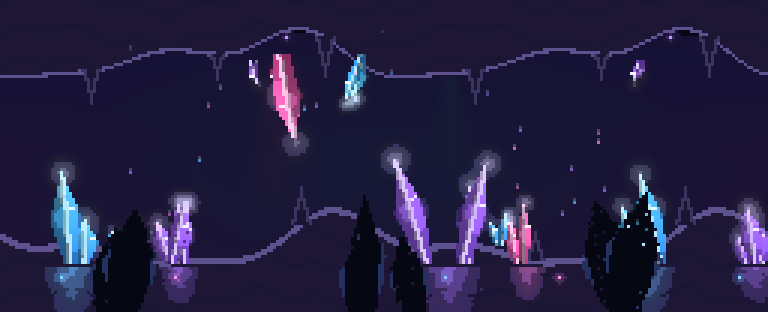
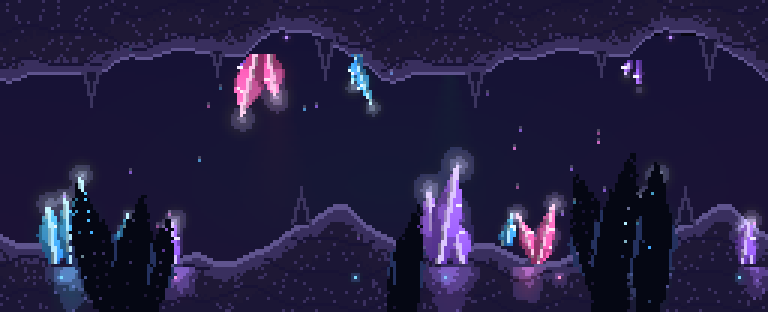
Fix crystal jitter + give rock volume
- Crystals "暴れる" (rampaging): the cluster RNG was seeded with the on-screen X,
  which changes every frame while scrolling, so each crystal's shape/tilt/count
  was re-randomised per frame. Seed by the instance's stable id instead → forms
  hold steady as they scroll. Gentler breathing pulse too.
- Rock read too flat vs the gems: depth-graded tones (lit lip → near → mid →
  deep) + grain dither + craggier silhouette so walls have volume, with the
  grain/cracks made periodic over the layer so the loop stays seamless.

diff --git a/src/background.js b/src/background.js
@@ -30,6 +30,8 @@ const clamp01 = (v) => (v < 0 ? 0 : v > 1 ? 1 : v);
 const mix = (a, b, t) => [lerp(a[0], b[0], t), lerp(a[1], b[1], t), lerp(a[2], b[2], t)];
 const scl = (c, k) => [c[0] * k, c[1] * k, c[2] * k];
 const TAU = Math.PI * 2;
+// stable value hash for rock grain
+function hash(x, y) { let h = (Math.imul(x | 0, 374761393) + Math.imul(y | 0, 668265263)) >>> 0; h = Math.imul(h ^ (h >>> 13), 1274126177) >>> 0; return (h >>> 0) / 4294967296; }
 
 // crystal hues (magical pastel): edge outline / deep body / body / hot core
 const HUES = {
@@ -88,7 +90,7 @@ function crystalCluster(buf, x, baseY, scale, dir, hueName, seed, pulseT, glowK 
   for (let i = 0; i < n; i++) specs.push({ len: scale * (0.55 + R() * 0.7), hw: scale * (0.13 + R() * 0.09), tilt: (R() - 0.5) * 0.75, off: (R() - 0.5) * scale * 0.55, ph: R() });
   specs.sort((a, b) => a.len - b.len); // shorter crystals behind
   for (const s of specs) {
-    const pulse = (0.82 + 0.18 * Math.sin((pulseT + s.ph) * TAU)) * glowK;
+    const pulse = (0.88 + 0.12 * Math.sin((pulseT + s.ph) * TAU)) * glowK;
     crystalSpike(buf, x + s.off, baseY, s.len, s.hw, base + s.tilt, hue, pulse);
   }
 }
@@ -113,23 +115,39 @@ function crystalClusterDark(buf, x, baseY, scale, dir, seed) {
   }
 }
 
-// undulating rock edge, periodic over `period`
+// undulating rock edge, periodic over `period` (extra octave = craggier lip)
 function rockEdge(worldX, period, base, amp, seedPhase) {
   const k = TAU / period;
-  return base + amp * 0.6 * Math.sin(k * worldX + seedPhase) + amp * 0.3 * Math.sin(k * 2 * worldX + seedPhase * 1.7) + amp * 0.18 * Math.sin(k * 3 * worldX + 2 + seedPhase);
+  return base
+    + amp * 0.6 * Math.sin(k * worldX + seedPhase)
+    + amp * 0.3 * Math.sin(k * 2 * worldX + seedPhase * 1.7)
+    + amp * 0.18 * Math.sin(k * 3 * worldX + 2 + seedPhase)
+    + amp * 0.1 * Math.sin(k * 5 * worldX + seedPhase * 2.3)
+    + amp * 0.06 * Math.sin(k * 8 * worldX + 1);
 }
 
-// rock band with strata bands + rim light; dir<0 ceiling (top), dir>0 floor (bottom)
-function rockBand(buf, off, period, dir, baseDepth, amp, seedPhase, dark, crack, rim) {
+// Volumetric rock band: depth-graded tones + grain dither + rim lip + cracks.
+// dir<0 ceiling (fills top), dir>0 floor (fills bottom). tones = [rim,near,mid,deep,crack].
+function rockBand(buf, off, period, dir, baseDepth, amp, seedPhase, tones) {
+  const [rim, near, mid, deep, crack] = tones;
   for (let x = 0; x < W; x++) {
     const wx = x + off;
     const edge = rockEdge(wx, period, baseDepth, amp, seedPhase);
     const yy = dir < 0 ? [0, Math.floor(edge)] : [Math.ceil(H - edge), H];
+    const ph = TAU * wx / period;                                 // periodic phase (seamless)
+    const gx = ((Math.round(wx) % period) + period) % period;     // grain wrapped to period
+    const crackOff = Math.floor(Math.sin(2 * ph) * 3 + Math.sin(5 * ph) * 1.6);
     for (let y = yy[0]; y < yy[1]; y++) {
       const depth = dir < 0 ? edge - y : y - (H - edge);
-      let c = dark;
-      if (depth < 2.2) c = rim;                                   // lit lip
-      else if (depth > 3 && ((y + Math.floor(Math.sin(wx * 0.09) * 3 + Math.sin(wx * 0.31) * 1.5)) % 11) === 0) c = crack; // sparse waving strata crack
+      let c;
+      if (depth < 2) c = rim;                                     // lit lip
+      else {
+        const g = hash(gx, y);                                    // grain
+        const dv = depth + (g - 0.5) * 3.2;                       // jitter tone bands
+        c = dv < 6 ? near : dv < 14 ? mid : deep;
+        if (depth > 3 && ((y + crackOff) % 11) === 0) c = crack;
+        else if (g > 0.93 && depth > 2.5) c = near;               // sparse light fleck
+      }
       buf.set(x, y, c);
     }
   }
@@ -200,14 +218,15 @@ function renderFrame(f) {
 
   // 2. far rock walls (strata + rim) + embedded gems + distant dim crystals
   const offFar = t * 128;
-  rockBand(buf, offFar, 128, -1, 20, 10, 0.5, [0.14, 0.11, 0.25], [0.09, 0.07, 0.18], [0.34, 0.3, 0.52]);
-  rockBand(buf, offFar, 128, 1, 24, 11, 2.1, [0.14, 0.11, 0.25], [0.09, 0.07, 0.18], [0.34, 0.3, 0.52]);
+  const rockTones = [[0.36, 0.32, 0.54], [0.23, 0.19, 0.38], [0.16, 0.13, 0.28], [0.10, 0.08, 0.19], [0.07, 0.055, 0.15]];
+  rockBand(buf, offFar, 128, -1, 20, 10, 0.5, rockTones);
+  rockBand(buf, offFar, 128, 1, 24, 11, 2.1, rockTones);
   forEachInstance(offFar, 128, [
     { x: 20, hue: 'cyan' }, { x: 58, hue: 'pink' }, { x: 95, hue: 'violet' }, { x: 118, hue: 'cyan' },
   ], (X, p) => embeddedGem(buf, X, p.x % 2 ? 12 : H - 12, p.hue, 0.8));
   forEachInstance(offFar, 128, [
     { x: 40, s: 10, dir: 1, hue: 'cyan', seed: 11 }, { x: 84, s: 9, dir: -1, hue: 'violet', seed: 12 },
-  ], (X, p) => crystalCluster(buf, X, p.dir > 0 ? H - 22 : 20, p.s, p.dir, p.hue, p.seed + (X | 0), t, 0.5));
+  ], (X, p) => crystalCluster(buf, X, p.dir > 0 ? H - 22 : 20, p.s, p.dir, p.hue, p.seed, t, 0.5));
   // stalactites hanging from the ceiling / stalagmites on the floor
   forEachInstance(offFar, 128, [{ x: 30, l: 11, w: 3 }, { x: 72, l: 8, w: 2.5 }, { x: 108, l: 13, w: 3.5 }], (X, p) => {
     const e = rockEdge(X + offFar, 128, 20, 10, 0.5); rockSpike(buf, X, e - 1, p.l, p.w, 1);
@@ -223,13 +242,13 @@ function renderFrame(f) {
     { x: 150, s: 30, dir: 1, hue: 'violet', seed: 25 }, { x: 176, s: 17, dir: 1, hue: 'pink', seed: 26 },
   ];
   forEachInstance(offMid, 192, midDefs.filter((d) => d.dir > 0), (X, p) => floorReflection(buf, X, H - 15, p.s * 0.7, p.s * 0.34, p.hue, 1));
-  forEachInstance(offMid, 192, midDefs, (X, p) => crystalCluster(buf, X, p.dir > 0 ? H - 16 : 18, p.s, p.dir, p.hue, p.seed + (X | 0), t, 1));
+  forEachInstance(offMid, 192, midDefs, (X, p) => crystalCluster(buf, X, p.dir > 0 ? H - 16 : 18, p.s, p.dir, p.hue, p.seed, t, 1));
 
   // 4. foreground silhouettes (fast)
   const offFg = t * 256;
   forEachInstance(offFg, 256, [
     { x: 40, s: 40, seed: 31 }, { x: 130, s: 34, seed: 32 }, { x: 208, s: 46, seed: 33 },
-  ], (X, p) => crystalClusterDark(buf, X, H + 3, p.s, 1, p.seed + (X | 0)));
+  ], (X, p) => crystalClusterDark(buf, X, H + 3, p.s, 1, p.seed));
 
   // 5. ambient motes + occasional twinkles
   const R = rng(99);
